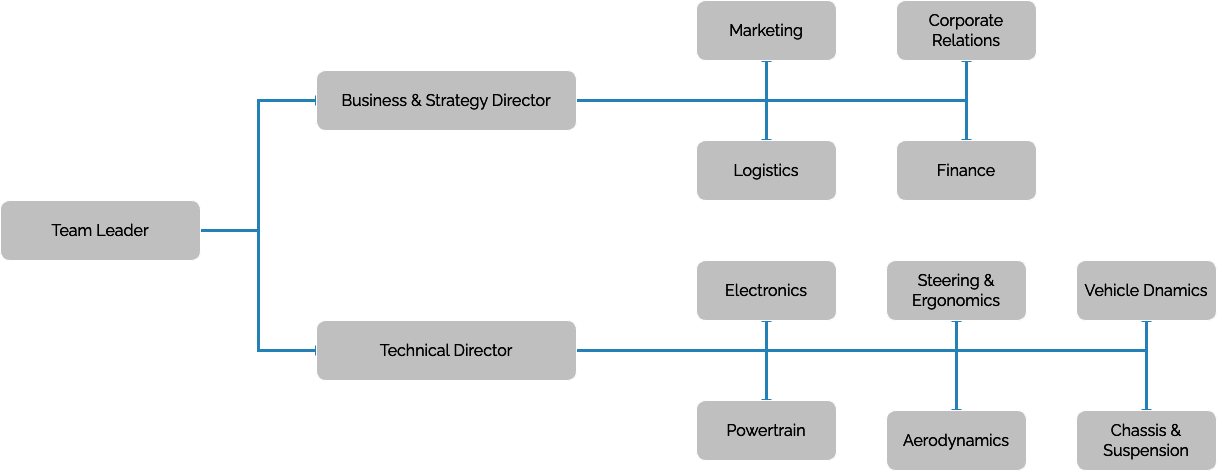
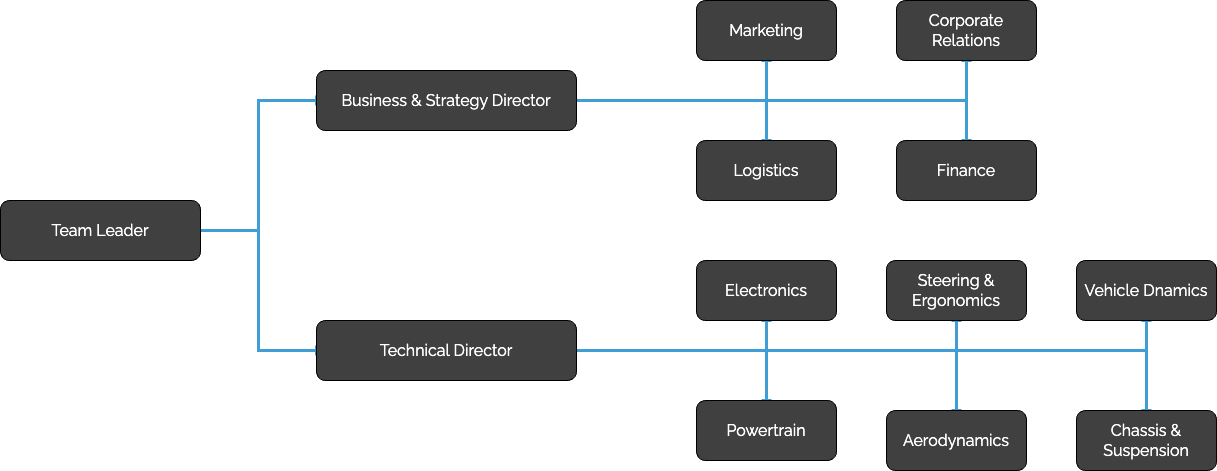
charts

Changed region(s): [[0.1873, 0.535, 1.0, 1.0], [0.1873, 0.0, 0.8743, 0.4459], [0.0, 0.4161, 0.2186, 0.5648]]

diff --git a/src/pages/AboutUsPage/style.css b/src/pages/AboutUsPage/style.css
@@ -110,7 +110,7 @@ body {
 }
 
 .team-section-about {
-  background-color: #1d1d1d;
+  background-color: #ffffff;
  
   flex-direction: column;
   align-items: center;
@@ -129,7 +129,7 @@ body {
 
 /* Default styles for English images */
 .team-image-container.eng {
-  background-image: url('../../assets/images/org_chart_eng.drawio_desktop.png');
+  background-image: url('../../assets/images/org_chart_en.drawio_desktop.png');
   background-size: contain;
   background-repeat: no-repeat;
   background-position: center;
@@ -139,7 +139,7 @@ body {
 /* Styles for English images on screens with an aspect ratio less than 1 (more vertical) */
 @media (max-aspect-ratio: 1/1) {
   .team-image-container.eng {
-    background-image: url('../../assets/images/org_chart_eng.drawio_mobile.png');
+    background-image: url('../../assets/images/org_chart_en.drawio_mobile.png');
     z-index: 10;
   }
 }

diff --git a/src/components/maps.js b/src/components/maps.js
@@ -10,6 +10,9 @@ const MapComponent = ({ mapCenter, mapZoom }) => {
     if (mapRef.current && !mapRef.current._leaflet_id) {
       const map = L.map(mapRef.current, {
         scrollWheelZoom: false,
+
+        TouchZoom: false,
+
         center: mapCenter,
         zoom: mapZoom
       });
@@ -31,7 +34,7 @@ const MapComponent = ({ mapCenter, mapZoom }) => {
     }
   }, [mapCenter, mapZoom]); // Dependencies array ensures effect runs only if these values change
 
-  return <div id="map" ref={mapRef} style={{ height: '50vh'}}></div>;
+  return <div id="map" ref={mapRef} style={{ height: '50vh' }}></div>;
 };
 
 export default MapComponent;

diff --git a/src/pages/ContactsPage/index.js b/src/pages/ContactsPage/index.js
@@ -46,11 +46,15 @@ const ContactsPage = () => {
       const data = await response.json();
       console.log(data);
       alert('Email sent successfully!');
+
     } catch (error) {
       console.error('Error sending email:', error);
       alert('Failed to send email.');
     }
   };
+
+ 
+    
 
 
 

diff --git a/BackEnd/app.js b/BackEnd/app.js
@@ -20,7 +20,7 @@ const transporter = nodemailer.createTransport({
 
 app.post('/send-email', async (req, res) => {
     const { to, subject, text } = req.body;
-  
+
     try {
       await transporter.sendMail({
         from: 'sender@example.com',
